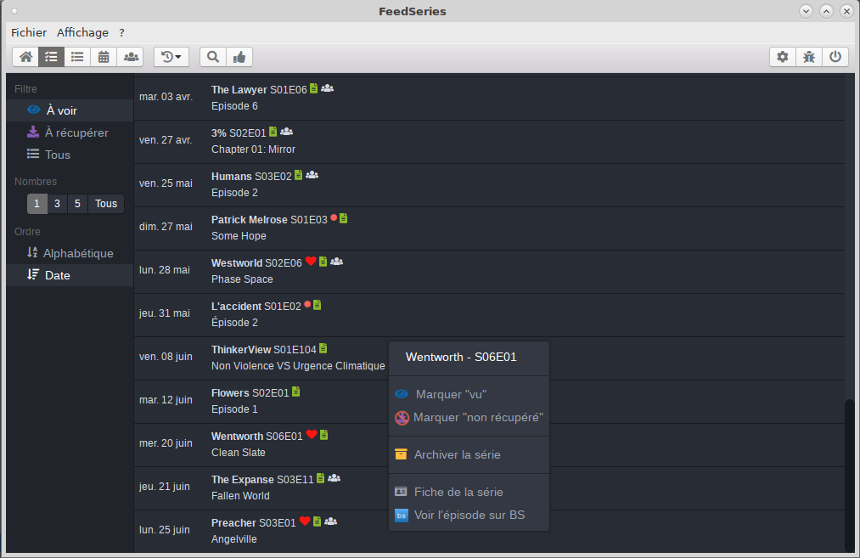
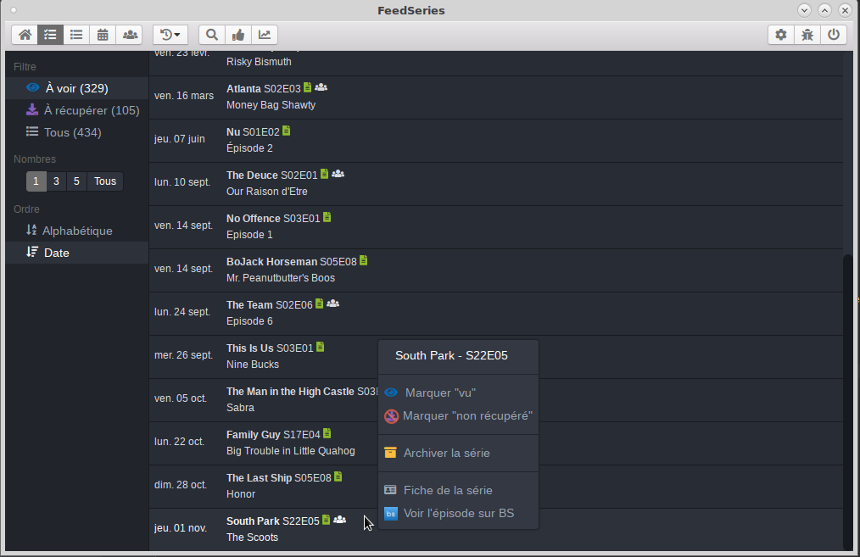
Update screenshots

Changed region(s): [[0.0, 0.0, 1.0, 1.0], [0.4233, 0.0, 0.514, 0.0305]]

diff --git a/README.md b/README.md
@@ -14,10 +14,10 @@ Allez sur la page des [releases](https://github.com/matthieuy/feedseries/release
 
 ## Screenshots
 
-![Mes épisodes](/doc/screenshot1.png)  
+![Mes episodes](/doc/screenshot1.png)  
 ![Calendrier](/doc/screenshot2.png)  
-![Série](/doc/screenshot3.png)
-
+![Serie](/doc/screenshot3.png)  
+![Statistiques](/doc/screenshot4.png)  
 
 ## Credits
 
